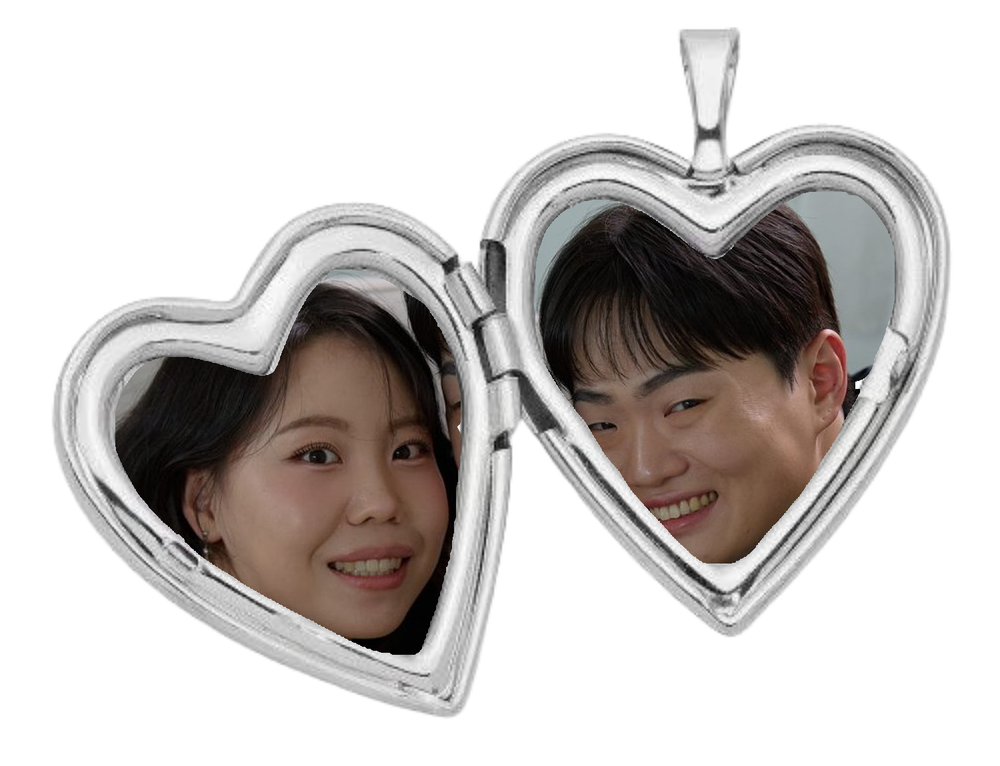
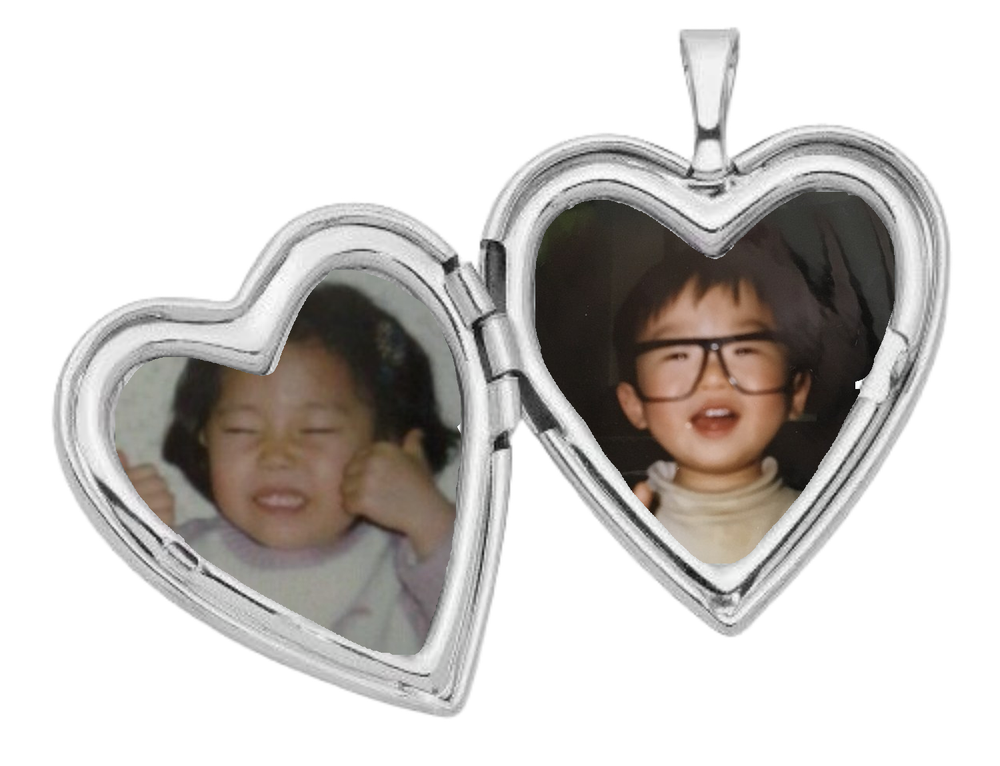
Update gallery behavior, location map, locket and cover photos
- Remove gallery lightbox
- Remove Kakao chip, add optional Naver map support
- Use baby photos in locket, wedding photo 1 as wide photo
- Bump asset version for cache busting

Changed region(s): [[0.527, 0.2402, 0.899, 0.7507], [0.093, 0.3603, 0.465, 0.8708]]

diff --git a/script.js b/script.js
@@ -4,6 +4,8 @@
     date: new Date('2027-02-13T12:10:00+09:00'),
     venueName: '원주 빌라드아모르',           // 지도 검색어로도 사용
     uploadLink: '',                    // 하객 사진 업로드 링크 (구글 드라이브 등)
+    naverMapKey: '',                   // 네이버 지도 API 키(ncpKeyId). 비우면 구글 지도로 표시
+    address: '강원 원주시 북원로 2888',
     bgm: '',                           // 배경음악 파일 경로 (예: 'audio/bgm.mp3')
   };
 
@@ -15,12 +17,8 @@
     d.className = 'stamp';
     d.style.setProperty('--r', ((i * 37) % 5 - 2) * .8 + 'deg');
     d.innerHTML = `<img loading="lazy" src="img/ace_${n}.jpg" alt="웨딩 사진 ${i + 1}">`;
-    d.addEventListener('click', () => openLb(`img/ace_${n}.jpg`));
     stamps.appendChild(d);
   });
-  const lb = document.getElementById('lightbox');
-  function openLb(src){ lb.querySelector('img').src = src; lb.hidden = false; }
-  lb.addEventListener('click', () => lb.hidden = true);
 
   // ===== 달력 =====
   const cal = document.getElementById('cal');
@@ -49,7 +47,6 @@
   // ===== 지도 링크 =====
   const q = encodeURIComponent(CFG.venueName);
   $('lk-naver').href = `https://map.naver.com/p/search/${q}`;
-  $('lk-kakao').href = `https://map.kakao.com/link/search/${q}`;
   $('lk-tmap').href = '#';
   $('lk-tmap').addEventListener('click', (e) => {
     e.preventDefault();
@@ -60,6 +57,22 @@
     setTimeout(() => { if (!document.hidden && Date.now() - t < 2500) location.href = ios ? 'https://apps.apple.com/kr/app/id431589174' : 'https://play.google.com/store/apps/details?id=com.skt.tmap.ku'; }, 1500);
   });
   $('lk-google').href = `https://www.google.com/maps/search/?api=1&query=${q}`;
+  // ===== 네이버 지도 (키가 있을 때만) =====
+  if (CFG.naverMapKey) {
+    const mapBox = $('map');
+    const sc = document.createElement('script');
+    sc.src = `https://oapi.map.naver.com/openapi/v3/maps.js?ncpKeyId=${CFG.naverMapKey}&submodules=geocoder`;
+    sc.onload = () => {
+      naver.maps.Service.geocode({ query: CFG.address }, (status, res) => {
+        if (status !== naver.maps.Service.Status.OK || !res.v2.addresses.length) return;
+        const a = res.v2.addresses[0], pos = new naver.maps.LatLng(a.y, a.x);
+        mapBox.innerHTML = '';
+        const map = new naver.maps.Map(mapBox, { center: pos, zoom: 16, scaleControl: false, mapDataControl: false });
+        new naver.maps.Marker({ position: pos, map });
+      });
+    };
+    document.head.appendChild(sc);
+  }
   if (CFG.uploadLink) $('upload-link').href = CFG.uploadLink;
 
   // ===== 슬라이더 =====

diff --git a/index.html b/index.html
@@ -10,7 +10,7 @@
 <link rel="preconnect" href="https://fonts.googleapis.com">
 <link rel="preconnect" href="https://fonts.gstatic.com" crossorigin>
 <link href="https://fonts.googleapis.com/css2?family=Gaegu:wght@400;700&family=Gowun+Batang:wght@400;700&family=Nothing+You+Could+Do&family=Reenie+Beanie&display=swap" rel="stylesheet">
-<link rel="stylesheet" href="style.css">
+<link rel="stylesheet" href="style.css?v=6">
 </head>
 <body>
 <main class="wrap">
@@ -35,7 +35,7 @@
       <span>이종봉 · 문태숙<em>의 딸</em> <b>가경</b></span>
     </p>
 
-    <div class="locket reveal"><img src="img/locket.png" alt="신랑신부 로켓 목걸이"></div>
+    <div class="locket reveal"><img src="img/locket.png?v=6" alt="신랑신부 로켓 목걸이"></div>
 
     <div class="tapes reveal">
       <img src="img/tape.png" alt="">
@@ -49,7 +49,7 @@
       서로의 안식처가 되어주기로 했습니다.<br><br>
       그 약속이 영원이 되는 날,<br>저희의 증인이 되어주세요.
     </p>
-    <div class="wide-photo reveal"><img src="img/ace_1690.jpg" alt="" style="object-position:50% 62%"></div>
+    <div class="wide-photo reveal"><img src="img/wedding1.jpg" alt=""></div>
   </section>
 
   <!-- 3. Gallery -->
@@ -87,7 +87,7 @@
     <div class="map reveal" id="map">
       <iframe title="예식장 지도" loading="lazy" referrerpolicy="no-referrer-when-downgrade"
         src="https://maps.google.com/maps?q=%EC%9B%90%EC%A3%BC%20%EB%B9%8C%EB%9D%BC%EB%93%9C%EC%95%84%EB%AA%A8%EB%A5%B4&hl=ko&z=16&output=embed"></iframe>
-      <a class="kakao-chip" id="lk-kakao" target="_blank" rel="noopener"><svg viewBox="0 0 14 16"><path d="M7 0C3.4 0 .5 2.8.5 6.3c0 4.3 5.1 9.2 6.2 9.6.2.1.4.1.6 0C8.400 15.500 13.500 10.600 13.500 6.300 13.500 2.800 10.600 0 7 0z" fill="#fee500"/><circle cx="7" cy="6.2" r="2.4" fill="#3c3c3c"/></svg>카카오맵 열기</a>
+      
     </div>
     <div class="map-btns reveal">
       <a id="lk-naver" target="_blank" rel="noopener"><i class="ic n">N</i>네이버</a>
@@ -170,8 +170,7 @@
   <footer>© Sanghyun &amp; Gakyung</footer>
 </main>
 
-<div id="lightbox" hidden><button aria-label="닫기">×</button><img alt=""></div>
 <div id="toast" hidden>복사되었어요</div>
-<script src="script.js"></script>
+<script src="script.js?v=6"></script>
 </body>
 </html>

diff --git a/style.css b/style.css
@@ -221,8 +221,7 @@ img {
 
 .wide-photo img {
   width: 100%;
-  height: 420px;
-  object-fit: cover
+  height: auto
 }
 
 /* gallery */
@@ -249,7 +248,6 @@ img {
   padding: 4px;
   aspect-ratio: 3/4.1;
   transform: rotate(var(--r, 0deg));
-  cursor: pointer;
   -webkit-mask: linear-gradient(#000 0 0) padding-box, radial-gradient(circle 3px at 5px 5px, transparent 98%, #000) border-box 0 0/10px 10px;
   mask: linear-gradient(#000 0 0) padding-box, radial-gradient(circle 3px at 5px 5px, transparent 98%, #000) border-box 0 0/10px 10px;
   filter: drop-shadow(0 2px 3px rgba(0, 0, 0, .3))
@@ -412,30 +410,6 @@ img {
   height: 100%;
   border: 0;
   display: block
-}
-
-.kakao-chip {
-  position: absolute;
-  left: 10px;
-  top: 10px;
-  display: flex;
-  align-items: center;
-  gap: 6px;
-  padding: 7px 12px 7px 10px;
-  border-radius: 6px;
-  background: rgba(60, 60, 60, .88);
-  color: #fff;
-  font-size: 13px;
-  line-height: 1;
-  text-decoration: none;
-  font-family: var(--serif);
-  font-weight: 700
-}
-
-.kakao-chip svg {
-  width: 14px;
-  height: 16px;
-  flex: none
 }
 
 .map-btns {
@@ -765,36 +739,6 @@ footer {
 }
 
 /* misc */
-#lightbox {
-  position: fixed;
-  inset: 0;
-  background: rgba(0, 0, 0, .88);
-  z-index: 100;
-  display: grid;
-  place-items: center
-}
-
-#lightbox[hidden] {
-  display: none
-}
-
-#lightbox img {
-  max-width: 94vw;
-  max-height: 88vh;
-  object-fit: contain
-}
-
-#lightbox button {
-  position: absolute;
-  top: 14px;
-  right: 18px;
-  font-size: 38px;
-  background: none;
-  border: 0;
-  color: #fff;
-  cursor: pointer
-}
-
 #toast {
   position: fixed;
   bottom: 40px;
